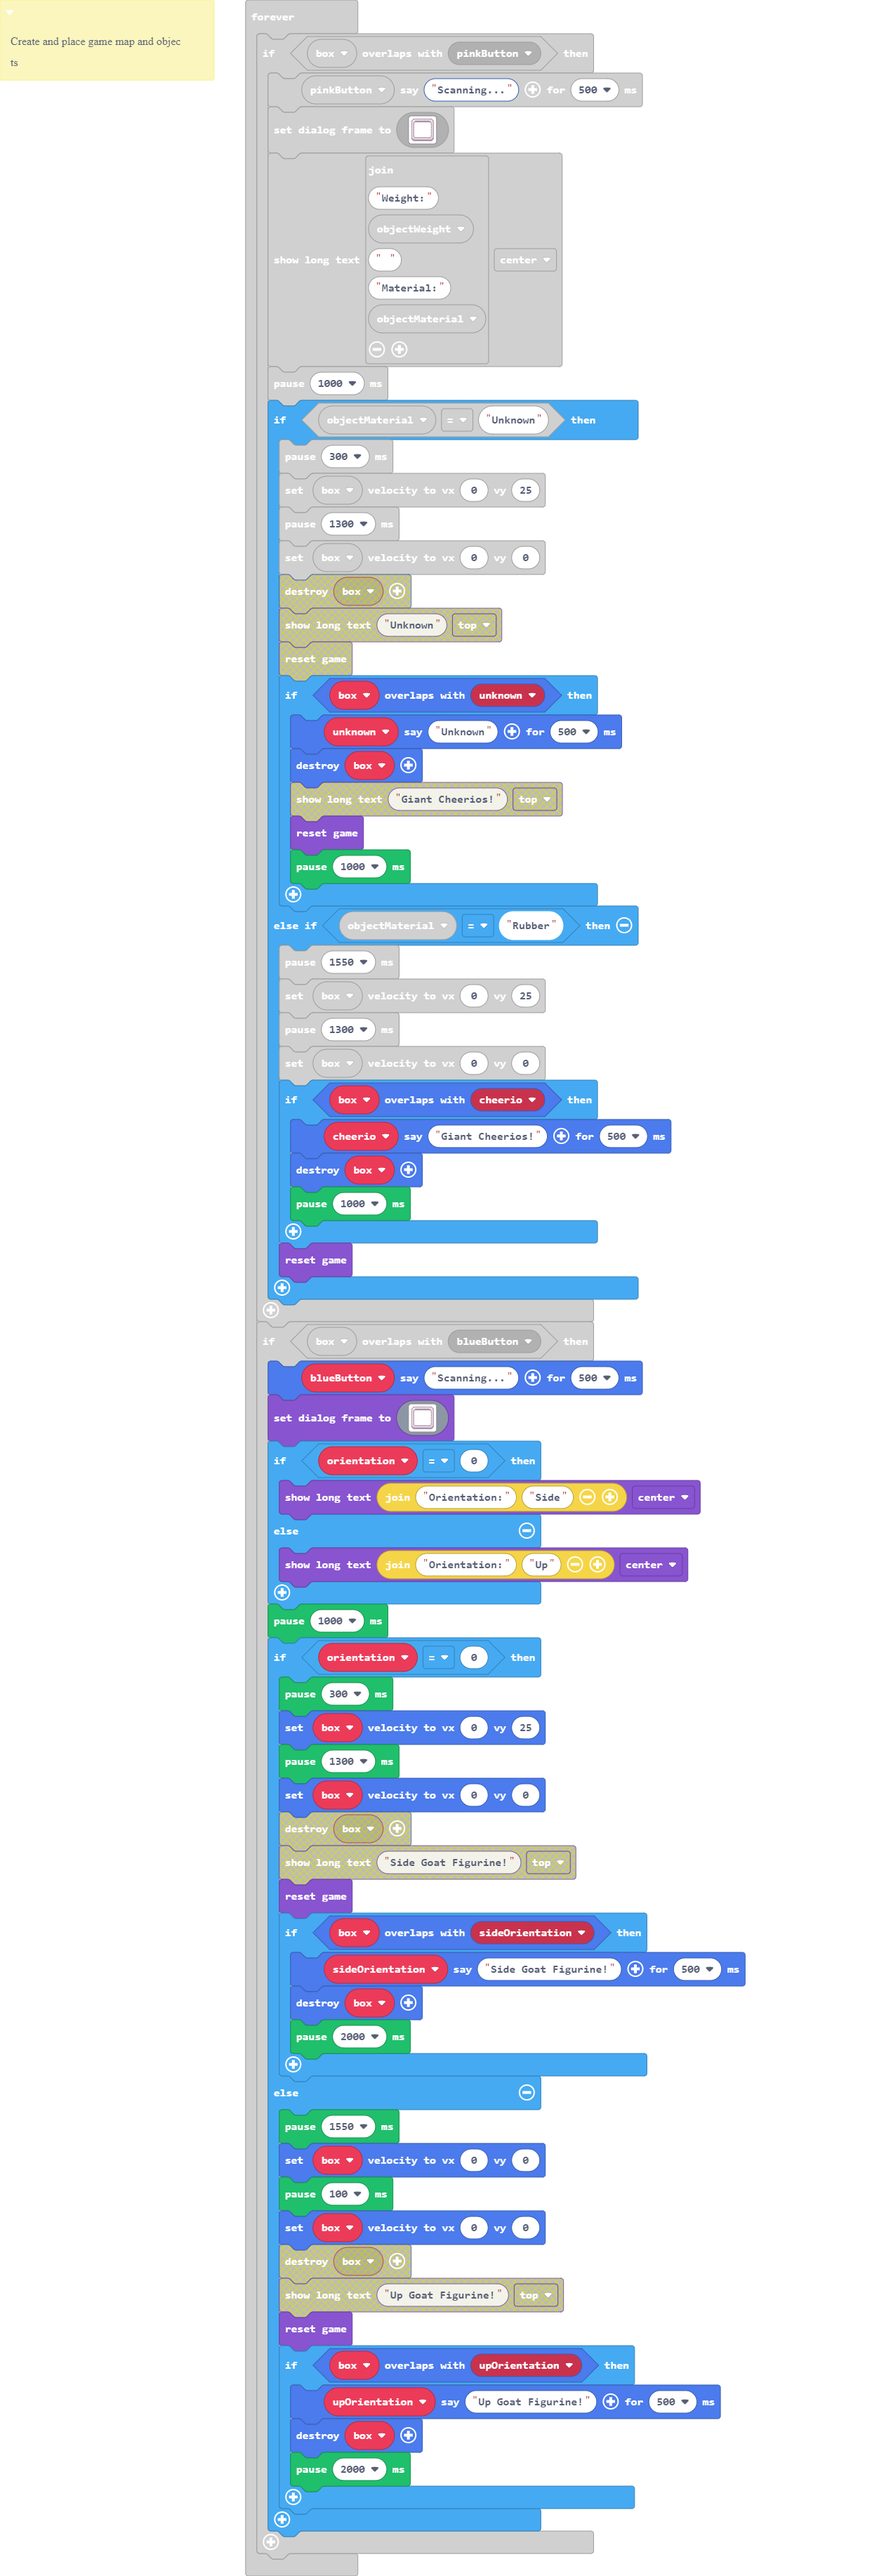
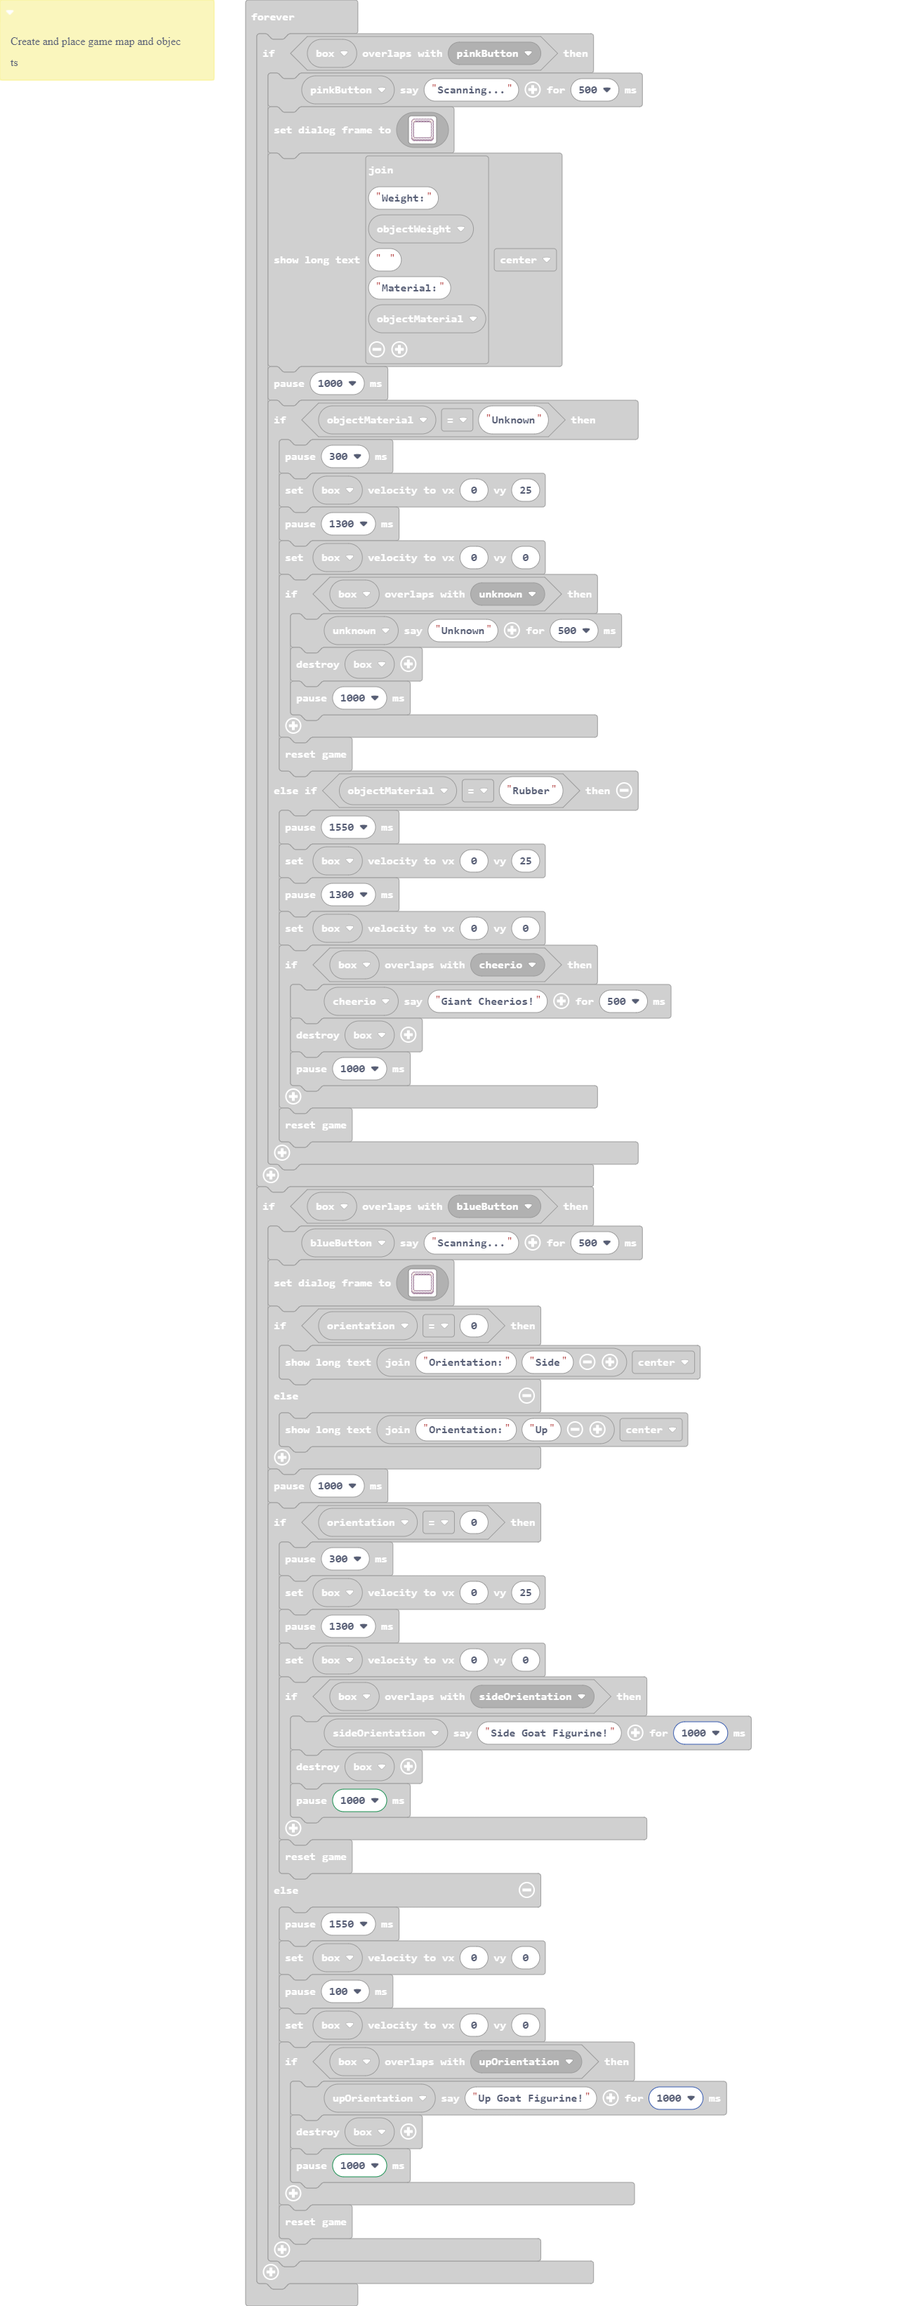
Update main.blocks, main.ts

Changed region(s): [[0.2459, 0.0, 0.8605, 0.9939], [0.0, 0.0311, 0.2151, 0.0621]]

diff --git a/main.ts b/main.ts
@@ -338,9 +338,9 @@ forever(function () {
             pause(1300)
             box.setVelocity(0, 0)
             if (box.overlapsWith(sideOrientation)) {
-                sideOrientation.say("Side Goat Figurine!", 500)
+                sideOrientation.say("Side Goat Figurine!", 1000)
                 box.destroy()
-                pause(2000)
+                pause(1000)
             }
             game.reset()
         } else {
@@ -349,9 +349,9 @@ forever(function () {
             pause(100)
             box.setVelocity(0, 0)
             if (box.overlapsWith(upOrientation)) {
-                upOrientation.say("Up Goat Figurine!", 500)
+                upOrientation.say("Up Goat Figurine!", 1000)
                 box.destroy()
-                pause(2000)
+                pause(1000)
             }
             game.reset()
         }
